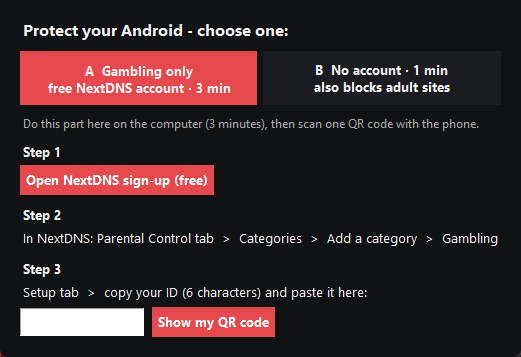
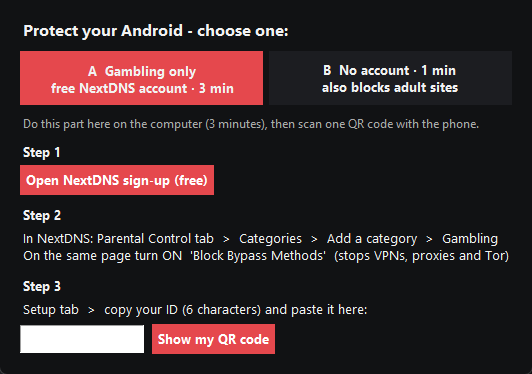
v0.4.1: why we built it, VPN FAQ, Block Bypass Methods
- README rewritten: our intention up front, A/B comparison, honest VPN FAQ
- Manifesto (EN/TR): gambling only, easy setup, honest about limits
- App + phone page: turn on NextDNS 'Block Bypass Methods' (stops VPNs)

diff --git a/docs/a/index.html b/docs/a/index.html
@@ -22,7 +22,7 @@
     <h2>First: your free NextDNS ID</h2>
     <ol>
       <li>Create a free account: <a href="https://my.nextdns.io/signup" rel="noopener">my.nextdns.io/signup</a></li>
-      <li><b>Parental Control</b> tab → <b>Categories</b> → <b>Add a category</b> → <b>Gambling</b></li>
+      <li><b>Parental Control</b> tab → <b>Categories</b> → <b>Add a category</b> → <b>Gambling</b>. On the same page turn on <b>Block Bypass Methods</b> (stops VPNs, proxies and Tor).</li>
       <li><b>Setup</b> tab → copy your <b>ID</b> (6 characters) and paste it here:</li>
     </ol>
     <input id="idin" maxlength="6" placeholder="abc123" autocomplete="off" autocapitalize="off" spellcheck="false">
@@ -67,7 +67,7 @@
   <div class="card hide" id="after">
     <h2>Test &amp; make it stick</h2>
     <p style="margin:0 0 6px">This should <b>not</b> open any more: <a href="https://www.bet365.com" rel="nofollow noopener">bet365.com</a></p>
-    <p class="muted" style="margin:0">Give your NextDNS password (and on iPhone your Screen Time code) to someone you trust. Banking and everything else keeps working.</p>
+    <p class="muted" style="margin:0">Check that NextDNS → Parental Control → <b>Block Bypass Methods</b> is on (stops VPN apps). Give your NextDNS password (and on iPhone your Screen Time code) to someone you trust. Banking and everything else keeps working.</p>
   </div>
 
   <div class="card help">

diff --git a/fg/app.py b/fg/app.py
@@ -232,7 +232,8 @@ class App(tk.Tk):
             tk.Button(body, text="Open NextDNS sign-up (free)", bg=RED, fg="white", relief="flat", font=("Segoe UI", 10, "bold"),
                       cursor="hand2", command=lambda: webbrowser.open("https://my.nextdns.io/signup")).pack(anchor="w", pady=(2, 8))
             label("Step 2", bold=True)
-            label("In NextDNS: Parental Control tab  >  Categories  >  Add a category  >  Gambling", pady=(0, 8))
+            label("In NextDNS: Parental Control tab  >  Categories  >  Add a category  >  Gambling\n"
+                  "On the same page turn ON  'Block Bypass Methods'  (stops VPNs, proxies and Tor)", pady=(0, 8))
             label("Step 3", bold=True)
             label("Setup tab  >  copy your ID (6 characters) and paste it here:")
             r = tk.Frame(body, bg=BG)

diff --git a/fg/__init__.py b/fg/__init__.py
@@ -1,2 +1,2 @@
-__version__ = "0.4.0"
+__version__ = "0.4.1"
 APP_NAME = "FU#K!! G#MBLING"

diff --git a/README.md b/README.md
@@ -3,70 +3,107 @@
 <h1 align="center">FU#K!! G#MBLING</h1>
 
 <p align="center"><b>Block every betting and casino site on your computer and your phone.<br>
-Free forever. Non-profit. No account. No ads. No data collected.</b></p>
+Only gambling. Free forever. Non-profit. No ads. No tracking.</b></p>
 
 <p align="center">
   <a href="https://github.com/Dengeninoglu/fuck-gambling/releases/latest/download/FuckGambling.exe"><img alt="Download for Windows" src="https://img.shields.io/badge/DOWNLOAD-Windows%2010%20%2F%2011-e5484d?style=for-the-badge&logo=windows&logoColor=white"></a>
+  &nbsp;
+  <a href="https://dengeninoglu.github.io/fuck-gambling/a/"><img alt="Phone only" src="https://img.shields.io/badge/NO%20COMPUTER%3F-Set%20up%20your%20phone-2f9e44?style=for-the-badge&logo=android&logoColor=white"></a>
 </p>
 
-<p align="center"><i>Made for everyone who wants out. · <a href="MANIFESTO.md">Manifesto</a> · <a href="MANIFESTO.tr.md">Manifesto (Türkçe)</a></i></p>
+<p align="center"><a href="MANIFESTO.md">Manifesto</a> · <a href="MANIFESTO.tr.md">Manifesto (Türkçe)</a> · <a href="#-need-help-right-now">Helplines</a></p>
 
 ---
 
-## 🤝 A non-profit project
-FU#K!! G#MBLING is a **non-profit, volunteer project**. We don't sell anything, show ads or collect data, and we don't take a cut.
-Gambling companies spend billions to keep people playing. This costs nothing and always will.
+## ❤ Why we built this
 
-**Organisations** fighting gambling harm (helplines, clinics, charities, regulators): you may use, translate, rebrand and hand this out for free (MIT license). Open an issue and we'll help you set it up for your country.
+**This app was built within a few hours of realising how much money I had spent on gambling.**
+
+Betting companies have teams of engineers and psychologists whose only job is to keep you playing: bonuses, "free bets", notifications at 2 a.m., a new mirror site the day the old one gets blocked. The blockers that exist are either paid or so strict that they also block your bank, your crypto or half the internet, so people switch them off.
+
+We wanted something different:
+- **Free, forever.** The people who need a blocker most are often the ones who just lost their money.
+- **Only gambling.** Your bank, payments, work, social media and adult life are none of our business.
+- **Hard to undo in a weak moment, easy to set up on a good one.** If setup is hard, nobody does it. If removal is easy, an urge undoes it.
+- **Open and honest.** Every line of code is public. We tell you exactly what each option blocks.
+
+FU#K!! G#MBLING is a **non-profit, volunteer project**. We don't sell anything, show ads or collect data, and we don't take a cut. **Organisations** fighting gambling harm may use, translate, rebrand and hand it out for free (MIT license). [Open an issue](https://github.com/Dengeninoglu/fuck-gambling/issues) and we'll help.
+
+Found a bug? Please tell us: [open an issue](https://github.com/Dengeninoglu/fuck-gambling/issues).
 
 ---
 
-## How to use it (3 minutes)
+## 🚀 How to use it (about 5 minutes)
 
-### Step 1 · Download and open
-1. Click the red **DOWNLOAD** button above.
-2. Open **FuckGambling.exe**. Windows asks *"Do you want to allow this app to make changes?"*, click **Yes**.
-   > If a blue box says *"Windows protected your PC"*, click **More info → Run anyway**. Small free apps without a paid certificate always show this. The full source code is on this page.
-3. Choose **your country** (this shows your local helpline) and **your phone** (Android or iPhone).
+### 1 · Download and open
+Click the red **DOWNLOAD** button. Open **FuckGambling.exe**, and when Windows asks *"Allow this app to make changes?"* click **Yes**.
+> A blue *"Windows protected your PC"* box? Click **More info → Run anyway**. Free apps without a paid certificate always get this. The full source code is on this page.
+
+Pick **your country** (it shows your local helpline) and **your phone** (Android or iPhone).
 
 <p align="center"><img src="docs/img/main.png" width="460" alt="Main window"></p>
 
-### Step 2 · Press the three buttons
+### 2 · Press the three buttons
 
-| Button | What happens |
+| | |
 |---|---|
-| **1 Protect this PC** | Blocks ~45,000 betting/casino sites in **every browser**, and **nothing else**. Repairs itself every 30 minutes. Optional *strict mode* adds a DNS filter that catches brand-new gambling sites too (it also blocks adult sites). |
-| **2 Protect my phone** | Choose **A) gambling only** (the app walks you through a free NextDNS account on the computer, then shows *your* QR code) or **B) 1 minute, no account** (also blocks adult sites). Scan the QR, then tap *Install* (iPhone) or *Copy → paste* (Android). No cable. |
-| **3 Erase gambling traces** | Deletes gambling history, searches, cookies, saved logins and suggestions from Chrome, Edge, Brave and Opera. Everything else stays. You see a list first. |
+| **1 Protect this PC** | Blocks ~45,000 betting & casino sites in **every browser**, and nothing else. Repairs itself every 30 minutes. Removal takes 72 hours. |
+| **2 Protect my phone** | Choose **A** or **B** (below), scan the QR code with your phone, then tap *Install* (iPhone) or *Copy → Paste* (Android). No cable. |
+| **3 Erase gambling traces** | Deletes betting history, searches, cookies and saved logins from Chrome, Edge, Brave and Opera, and leaves the rest alone. You see the list first. |
+
+### Phone: A or B?
+
+| | **A · Gambling only** ✅ recommended | **B · One minute, no account** |
+|---|---|---|
+| Blocks | Betting & casino sites **only** | Betting & casino **and adult sites** |
+| Needs | Free [NextDNS](https://nextdns.io) account (the app walks you through it on the computer, 3 steps) | Nothing |
+| Stops VPN tricks | Yes, with *Block Bypass Methods* | No |
+| Limit | 300,000 lookups/month free (enough for most phones) | None |
 
 <p align="center">
-<img src="docs/img/phone-a-qr.png" width="380" alt="A: gambling only">&nbsp;&nbsp;
-<img src="docs/img/phone-b.png" width="380" alt="B: no account">
+<img src="docs/img/phone-a-wizard.png" width="300" alt="A: 3 steps on the computer">&nbsp;
+<img src="docs/img/phone-a-qr.png" width="300" alt="A: your personal QR code">&nbsp;
+<img src="docs/img/phone-b.png" width="300" alt="B: no account">
 </p>
 
-> 📱 **No computer?** On your phone: **[A: gambling only](https://dengeninoglu.github.io/fuck-gambling/a/)** · B (no account, also blocks adult sites): **[iPhone](https://dengeninoglu.github.io/fuck-gambling/FuckGambling.mobileconfig)** · **[Android](https://dengeninoglu.github.io/fuck-gambling/android/#b)**
+> 📱 **No computer?** On your phone open **[A: gambling only](https://dengeninoglu.github.io/fuck-gambling/a/)**, or B (no account, also blocks adult sites) for **[iPhone](https://dengeninoglu.github.io/fuck-gambling/FuckGambling.mobileconfig)** / **[Android](https://dengeninoglu.github.io/fuck-gambling/android/#b)**.
 
-### Step 3 · Make it stick (most important)
-A blocker buys you time. These steps make sure an urge can't undo it in a weak moment:
-- 🔑 **Give a code to someone you trust.** iPhone: let them set the *Screen Time* passcode. Android: *Google Family Link*. They keep it, not you.
-- 🏦 **Ask your bank to block gambling payments** on your cards (most banking apps have this).
-- 🚫 **Self-exclude** from betting companies if your country has a scheme (GAMSTOP UK, BetStop Australia, …).
+### 3 · Make it stick (the most important step)
+A blocker buys you time. These steps make sure a bad night can't undo it:
+- 🔑 **Give the keys to someone you trust:** your NextDNS password, the iPhone *Screen Time* passcode, Android *Family Link*. They keep them, not you.
+- 🚫 **Block VPNs:** NextDNS → Parental Control → **Block Bypass Methods** ON. iPhone: Screen Time → *VPN & DNS: Don't Allow*.
+- 🏦 **Ask your bank to block gambling payments** (most banking apps have a switch).
+- 📝 **Self-exclude** where your country has a scheme (GAMSTOP UK, BetStop Australia, …).
 - 📞 **Talk to someone.** The app shows free helplines for your country.
 
 ---
 
-## ✅ What keeps working
-Banking apps, crypto exchanges, work, school, YouTube, social media and **help & recovery sites**. Only gambling is blocked.
-
 ## ❓ FAQ
-**Can I turn it off?** Yes, on purpose slowly: *Remove protection* starts a **72-hour waiting time**. The urge passes long before that. You can cancel the request any time.
-**Does it break my phone?** No. It only changes the phone's standard *Private DNS* / DNS profile setting, and you can switch it back in Settings.
-**Does it track me?** No. There is no server, no account and no analytics. It runs on your device only.
-**Does it block porn or anything else?** No. By default only gambling is blocked. Only the *no-account* phone option and the optional *strict PC mode* use a public filter that also blocks adult sites. There is no free gambling-only filter that works without an account, so we tell you clearly before you choose.
-**Mac / TV / tablet / the whole house?** Gambling only: a free NextDNS account with the *Gambling* category, set on your router. No account: router DNS `86.54.11.12` / `86.54.11.212` (also blocks adult sites).
-**I already use Gamban / BetBlocker.** Fine. The app detects them and adds its block list on top without fighting them.
 
-## Need help right now?
+**Does it block porn or anything else?**
+No. By default **only gambling** is blocked. Only option **B** on phones and the optional *strict mode* on the PC use a free public filter that also blocks adult sites, and we tell you before you choose. There is no free gambling-only filter that works without an account, which is why option A uses a free NextDNS account.
+
+**Can someone get around it with a VPN?**
+Partly, and we'd rather be honest about it.
+- **PC:** the hosts list keeps working even with a VPN on, because it's checked on your computer before any DNS. A brand-new mirror site that isn't on the list yet could still get through.
+- **Phone:** a VPN can skip DNS filtering. Option A with **Block Bypass Methods** blocks most VPN, proxy and Tor services. On iPhone also set *Screen Time → VPN & DNS → Don't Allow*, and on Android use *Family Link* to stop new VPN apps being installed.
+- **Everywhere:** iCloud Private Relay and Opera's built-in VPN also skip filters. Turn them off.
+
+No blocker can stop someone who is determined to get around it. What it can do is put enough steps in the way that the urge passes first. That's why the "make it stick" steps matter more than any list.
+
+**Can I turn it off?** Yes, on purpose slowly. On the PC, *Remove protection* starts a **72-hour waiting time** that you can cancel at any time. On phones, whoever holds the password decides.
+
+**Will it break my phone?** No. It only changes the phone's standard DNS setting, which you can switch back in Settings.
+
+**Does it track me?** No. There's no server of ours, no account with us and no analytics. NextDNS (option A) is your own account with them.
+
+**I already use Gamban / BetBlocker.** Fine. The app detects them and adds its block list without fighting them.
+
+**Mac / TV / the whole house?** Put your NextDNS (gambling category) on your router, or for B the router DNS `86.54.11.12` / `86.54.11.212`.
+
+---
+
+## 📞 Need help right now?
 | Country | Free helpline |
 |---|---|
 | 🇿🇦 South Africa | **0800 006 008** (SA Responsible Gambling Foundation, 24/7) |
@@ -81,15 +118,14 @@ Banking apps, crypto exchanges, work, school, YouTube, social media and **help &
 <details>
 <summary><b>For techies: how it works, building, contributing</b></summary>
 
-- **PC (Windows 10/11):** `windows/engine.ps1` runs as a SYSTEM scheduled task (startup, logon, every 30 min). It writes [StevenBlack gambling-only](https://github.com/StevenBlack/hosts) hosts + country lists + numbered-mirror patterns into the hosts file, pins help sites to real IPs, in *strict mode* sets adapter DNS to [DNS4EU](https://www.joindns4.eu/) *Protective + Child Protection* (with DoH; also blocks adult content), and locks Chrome/Edge/Brave/Firefox DoH via policy. Uninstall uses a 72 h cooldown file. Emergency removal: [docs/UNINSTALL.md](docs/UNINSTALL.md).
-- **Android:** Private DNS: the user's own NextDNS endpoint (gambling only) or `child.joindns4.eu` (DoT, gambling + adult). Optional USB/adb automation for the latter.
-- **iPhone:** NextDNS profile (apple.nextdns.io) or our `com.apple.dnsSettings.managed` DNS4EU profile on GitHub Pages, opened via QR. Guide: [docs/IPHONE.md](docs/IPHONE.md).
+- **PC (Windows 10/11):** `windows/engine.ps1` runs as a SYSTEM scheduled task (startup, logon, every 30 min). It writes [StevenBlack gambling-only](https://github.com/StevenBlack/hosts) hosts + country lists + numbered-mirror patterns (`brand1.com … brand1000.com`) into the hosts file, pins help sites to their real IPs, and locks Chrome/Edge/Brave/Firefox Secure DNS via policy so browsers can't skip the hosts file. *Strict mode* additionally sets adapter DNS to [DNS4EU](https://www.joindns4.eu/) *Child Protection* (with DoH). Removal uses a 72 h cooldown file. Emergency removal: [docs/UNINSTALL.md](docs/UNINSTALL.md).
+- **Phones, option A:** the user's own NextDNS profile with the Gambling category. `docs/a/` builds an iPhone `com.apple.dnsSettings.managed` profile in the browser from the ID, or shows `<id>.dns.nextdns.io` for Android Private DNS.
+- **Phones, option B:** DNS4EU Child Protection: a static iPhone profile on GitHub Pages, and `child.joindns4.eu` for Android Private DNS (optional adb automation).
+- **Browser cleaner:** reads Chromium SQLite DBs (History, Cookies, Login Data, Favicons, Shortcuts, Top Sites…), does a dry-run on copies, then deletes only matching rows.
 - **Run from source:** Python 3.10+, `pip install qrcode`, then `START.bat` (or `python -m fg`).
-- **Build exe:** `pip install pyinstaller qrcode` then PyInstaller `--onefile --windowed --uac-admin` with `lists` and `windows` as data (see release notes).
+- **Build:** `pip install pyinstaller qrcode`, then PyInstaller `--onefile --windowed --uac-admin` with `lists` and `windows` as data, excluding PIL/numpy (~12 MB).
 - **Add your country:** edit `lists/countries.json` (name + free helplines) and add `lists/<code>.txt` (gambling sites), `lists/allow-<code>.txt` (banks), `lists/mirrors-<code>.txt`. PRs welcome!
-
-**Known limits:** VPNs/Tor bypass DNS blocking. NextDNS free = 300k lookups/month (after that it stops filtering until next month). The DNS4EU filter also hides some recovery websites (phone helplines always work). A determined admin can remove anything on their own PC. That is why Step 3 matters.
 
 </details>
 
-<p align="center"><sub>MIT License · Block lists: StevenBlack/hosts · DNS: DNS4EU · Made with anger and hope.</sub></p>
+<p align="center"><sub>MIT License · Block lists: StevenBlack/hosts + community country lists · DNS: NextDNS (A) / DNS4EU (B) · Made with anger and hope.</sub></p>

diff --git a/MANIFESTO.tr.md b/MANIFESTO.tr.md
@@ -11,18 +11,21 @@ Herhangi bir hata ya da bug bulursanız lütfen bana mesaj atın: [buradan bildi
 Bahis uygulamalarının arkasında, tek işi seni oyunda tutmak olan mühendis ve psikolog ekipleri var: bonuslar, "bedava kuponlar", gece 2'de gelen bildirimler, eski site kapanır kapanmaz açılan yeni adresler. Buna yenilmek karakter zayıflığı değil. Ürün tam da tasarlandığı gibi çalışıyor.
 
 ### 2. Korunmak para ile olmamalı.
-Engelleyiciye en çok ihtiyacı olan insanlar, çoğu zaman parasını yeni kaybetmiş olanlardır. Onlardan aylık abonelik istemek yanlış. FU#K!! G#MBLING **sonsuza kadar ücretsiz**. Premium sürüm yok, reklam yok, veri toplama yok, hesap yok.
+Engelleyiciye en çok ihtiyacı olan insanlar, çoğu zaman parasını yeni kaybetmiş olanlardır. Onlardan aylık abonelik istemek yanlış. FU#K!! G#MBLING **sonsuza kadar ücretsiz**. Premium sürüm yok, reklam yok, veri toplama yok, bize üyelik yok.
 
 ### 3. Kumarı engelle, hayatını değil.
-Bankanı, kripto borsanı ya da işini de engelleyen bir engelleyici bir gün kapatılır. Bizimki sadece bahis ve casino sitelerini engeller. Bankacılık, ödemeler ve **yardım siteleri** açık kalır, çünkü çıkış yolu asla kapanmamalı.
+Bankanı, kripto borsanı ya da işini de engelleyen bir engelleyici bir gün kapatılır. Bizimki **sadece** bahis ve casino sitelerini engeller. Bankacılık, ödemeler, yetişkin hayatın ve **yardım siteleri** bizi ilgilendirmez; çıkış yolu da asla kapanmamalı. Hesapsız tek ücretsiz seçenek yetişkin sitelerini de engelliyorsa bunu açıkça söyler, seçimi sana bırakırız.
 
 ### 4. En zor an için tasarla.
-Kimse engelleyiciyi iyi bir günde kaldırmaz. Bu yüzden korumayı kaldırmak **72 saat** sürer ve şifreyi güvendiğin birine vermeni öneririz. Amaç seni hapsetmek değil, o dalgayı atlatmak. Her şey geri alınabilir, cihazına hiçbir zarar vermez.
+Kimse engelleyiciyi iyi bir günde kaldırmaz. Bu yüzden korumayı kaldırmak **72 saat** sürer ve şifreyi güvendiğin birine vermeni öneririz. Kurulumu zor olan bir engelleyiciyi de kimse kurmaz; bu yüzden kurulum birkaç dakika ve bir QR kod. Amaç seni hapsetmek değil, o dalgayı atlatmak. Her şey geri alınabilir, cihazına hiçbir zarar vermez.
 
 ### 5. Açık kaynak, ki güvenebilesin.
 Kodun her satırı herkese açık (MIT lisansı). Herkes ne yaptığını kontrol edebilir, çevirebilir, geliştirebilir, dağıtabilir. Kumar zararıyla mücadele eden kurumlar onu kendi adlarıyla ücretsiz dağıtabilir.
 
-### 6. Teknoloji zaman kazandırır. İyileştiren insanlardır.
+### 6. Sınırlarımız konusunda dürüstüz.
+Kararlı birini hiçbir engelleyici durduramaz. VPN, DNS filtrelerini atlatabilir ve her gün yeni ayna siteler açılır. Bunu açıkça söylüyor, engelleyebildiğimizi (mümkünse VPN hilelerini de) engelliyor, asıl korumayı da ait olduğu yere bırakıyoruz: etrafındaki insanlara.
+
+### 7. Teknoloji zaman kazandırır. İyileştiren insanlardır.
 Engelleyici sana saatler, günler kazandırır. O zamanı kullan: bir yardım hattını ara, birine anlat, bankandan kumar ödemelerini engellemesini iste, bir gruba katıl. Yalnız değilsin ve bu yoldan çıkan ilk kişi de olmayacaksın.
 
 ---

diff --git a/MANIFESTO.md b/MANIFESTO.md
@@ -11,18 +11,21 @@ If you find any error or bug, please message me: [open an issue](https://github.
 Betting apps are built by teams of engineers and psychologists whose job is to keep you playing: bonuses, "free bets", push notifications at 2 a.m., new mirror sites the day the old one is blocked. Losing to that is not a character flaw. It is the product working as designed.
 
 ### 2. Protection should cost nothing.
-The people who need a blocker most are often the people who have just lost their money. Asking them for a monthly subscription is wrong. FU#K!! G#MBLING is **free, forever**. No premium tier, no ads, no data collection, no account.
+The people who need a blocker most are often the people who have just lost their money. Asking them for a monthly subscription is wrong. FU#K!! G#MBLING is **free, forever**. No premium tier, no ads, no data collection, no account with us.
 
 ### 3. Block gambling, not your life.
-A blocker that also blocks your bank, your crypto exchange or your work gets switched off. Ours blocks betting and casino sites only. Banking, payments and **help & recovery sites** stay open, because the way out must never be blocked.
+A blocker that also blocks your bank, your crypto exchange or your work gets switched off. Ours blocks betting and casino sites **only**. Banking, payments, your adult life and **help & recovery sites** are none of our business, and the way out must never be blocked. Where the only free no-account option also blocks adult sites, we say so plainly and let you choose.
 
 ### 4. Design for the worst moment.
-Nobody uninstalls a blocker on a good day. So removing protection takes **72 hours**, and we tell you to give the passcode to someone you trust. The goal is to outlast the urge, not to trap you. Everything is reversible and nothing can damage your device.
+Nobody uninstalls a blocker on a good day. So removing protection takes **72 hours**, and we tell you to give the passcode to someone you trust. And because nobody sets up a blocker if it's complicated, setup takes a few minutes and a QR code. The goal is to outlast the urge, not to trap you. Everything is reversible and nothing can damage your device.
 
 ### 5. Open, so you can trust it.
 Every line of code is public (MIT license). Anyone can check what it does, translate it, improve it or hand it out. Organisations that fight gambling harm can use it, rebrand it and give it away for free.
 
-### 6. Technology buys time. People heal.
+### 6. Honest about the limits.
+No blocker stops someone who is determined. A VPN can get around DNS filters, and new mirror sites appear every day. We say this out loud, block what we can (including VPN tricks where possible), and put the real defence where it belongs: the people around you.
+
+### 7. Technology buys time. People heal.
 A blocker gives you hours and days back. Use them: call a helpline, tell someone, ask your bank to block gambling payments, join a group. You are not alone, and you are not the first to get out.
 
 ---
